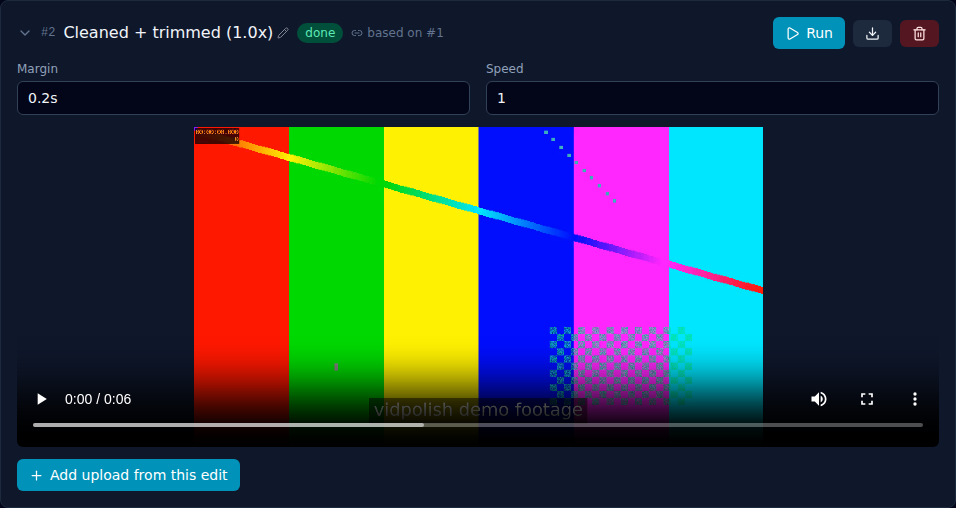
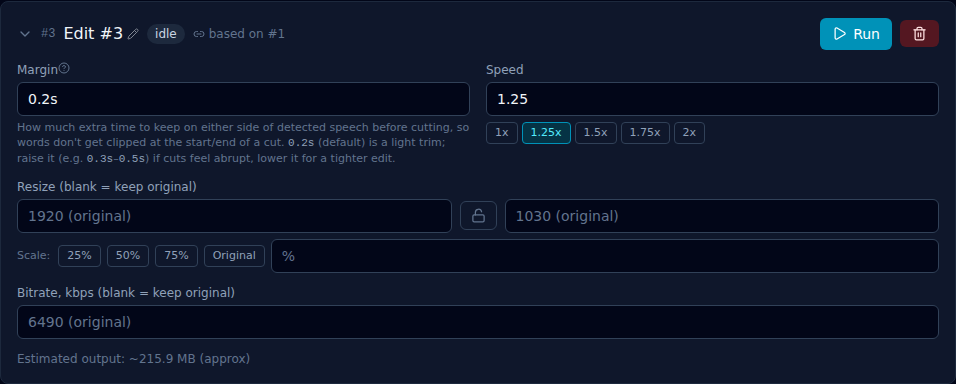
Update README and screenshots for resize/bitrate, media info, and GIF export
Documents the edit-cell resize/bitrate/scale controls, margin help, speed
presets, per-cell media info summary and comparison, and the new GIF
export action. Refreshes the project-view and edit-cell screenshots and
adds three new ones (finished edit cell, media info popover, GIF export
popover) captured headlessly against a running local instance, with all
video frames redacted before capture since the demo footage contains
personal/third-party content unsuitable for a public screenshot.

LiveReview Pre-Commit Check: skipped (iter:1, coverage:0%)

diff --git a/README.md b/README.md
@@ -51,6 +51,9 @@ small pipeline:
 3. **Remux** the cleaned audio back onto the video.
 4. **Auto-cut** silence and dead air with [auto-editor](https://github.com/WyattBlue/auto-editor),
    optionally speeding up the parts you kept.
+5. **Resize/re-encode** (optional) — only runs at all if you actually ask
+   for a different resolution or bitrate; left alone, the auto-cut output
+   is used as-is.
 
 Every stage shells out to a well-tested external binary instead of
 reinventing audio/video processing in Go: vidpolish is just the orchestrator
@@ -101,49 +104,75 @@ every cell expanded.
 </td></tr>
 <tr><td width="50%">
 
-**An edit cell** — margin/speed controls, a live video preview once it's
-run, Download, and "Add upload from this edit" as the primary next step.
+**An edit cell at rest** — margin (with an inline explanation), speed
+presets, resize (exact pixels or a quick 25/50/75%/original scale, with an
+aspect-ratio lock), bitrate, and a live pre-run size estimate.
 
 <img src="media/screenshots/03-edit-cell.png" width="100%">
 
 </td><td width="50%">
+
+**A finished edit cell** — the resolved video, a compact media-info
+summary bottom-right of it, Download, and the new GIF export action, all
+next to "Add upload from this edit" as the primary next step.
+
+<img src="media/screenshots/10-edit-cell-done.png" width="100%">
+
+</td></tr>
+<tr><td width="50%">
+
+**Media info, expanded** — click the summary to see full resolution,
+duration, bitrate, frame rate and file size, plus a percent-change
+comparison against the source.
+
+<img src="media/screenshots/11-media-info-popover.png" width="100%">
+
+</td><td width="50%">
+
+**Export as GIF** — pick fps and width, saved through the same
+save-file-picker flow as the video download.
+
+<img src="media/screenshots/12-gif-export.png" width="100%">
+
+</td></tr>
+<tr><td width="50%">
 
 **Live thumbnail preview** — the auto-generated YouTube thumbnail updates
 as you type the title, before you've even run the upload.
 
 <img src="media/screenshots/04-upload-cell-live-preview.png" width="100%">
 
-</td></tr>
-<tr><td width="50%">
+</td><td width="50%">
 
 **A finished upload** — the YouTube link appears as soon as it's known,
 in a copyable box (with a dedicated Copy button) rather than a bare link.
 
 <img src="media/screenshots/04-upload-cell-done.png" width="100%">
 
-</td><td width="50%">
+</td></tr>
+<tr><td width="50%">
 
 **Tool status** — the same checks as `vidpolish deps`, with a re-check
 button per tool.
 
 <img src="media/screenshots/08-tools.png" width="100%">
 
-</td></tr>
-<tr><td width="50%">
+</td><td width="50%">
 
 **Config panel** — YouTube credentials (secrets masked), upload defaults,
 and thumbnail styling, with automatic backups before every save.
 
 <img src="media/screenshots/07-config.png" width="100%">
 
-</td><td width="50%">
+</td></tr>
+<tr><td width="50%">
 
 **Cache panel** — shows which project a cache entry belongs to, and makes
 clear that deleting an entry never deletes the project itself.
 
 <img src="media/screenshots/09-cache.png" width="100%">
 
-</td></tr>
+</td><td width="50%"></td></tr>
 </table>
 
 ## Prerequisites
@@ -475,16 +504,21 @@ an ordered list of **cells**:
 
 - **Source cell** (`#1`, always first): drag a video in, or use the file
   picker. Created automatically with the project.
-- **Edit cells**: denoise + cut at a chosen margin/speed, with optional
-  resize (aspect-locked by default; unlock to set width/height
-  independently) and bitrate overrides — left blank, both stay at the
-  source's original values. Each is its own named, independently runnable
-  cell (e.g. "1.25x draft", "slow calm cut"). Add as many as you want at
-  different speeds; they share the
-  same underlying denoise/split work via the same cache
-  `process` uses, so trying five speeds doesn't denoise five times, and
-  running several at once is safe (the shared stage is serialized
-  per-source internally, the fast parts run in parallel).
+- **Edit cells**: denoise + cut at a chosen margin (with an inline
+  explanation of what it does) and speed (1x/1.25x/1.5x/1.75x/2x presets,
+  or type your own), with optional resize — exact pixels, or a quick
+  25/50/75%/original scale, aspect-locked by default — and bitrate
+  overrides; left blank, everything stays at the source's original
+  values, and a rough size estimate updates live as you change them. Each
+  is its own named, independently runnable cell (e.g. "1.25x draft", "slow
+  calm cut"). Add as many as you want at different speeds; they share the
+  same underlying denoise/split work via the same cache `process` uses,
+  so trying five speeds doesn't denoise five times, and running several
+  at once is safe (the shared stage is serialized per-source internally,
+  the fast parts run in parallel). Once a cell has run, a compact
+  resolution/duration/bitrate/size summary sits under the video (click for
+  the full breakdown plus a vs.-source comparison), and you can Download
+  the result or export it as a GIF (fps/width configurable) alongside it.
 - **Upload cells**: pick which edit cell's output to push to YouTube,
   set title/description/tags/privacy per cell, and run it. Multiple
   upload cells can target the same or different edit cells and run
